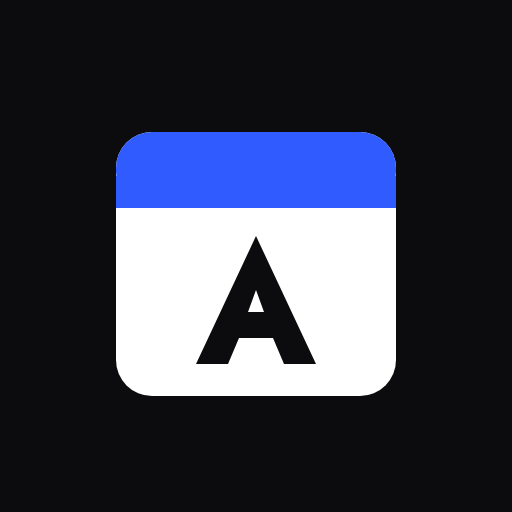
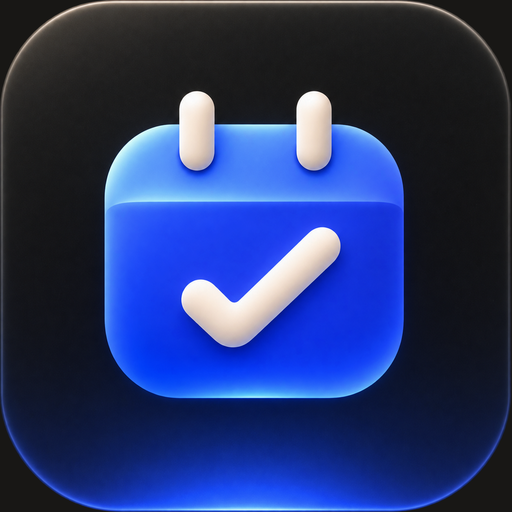
Calendrier à coche du kit d'identité Postmelo à la place du « A » (#16)
- Logo (barre latérale, connexion, visio) : le picto du kit, version claire ou sombre
  selon le thème effectif (système ou choisi), au lieu de la lettre A en dégradé.
- Favicon, icône Apple, icônes 192/512 et maskable du manifeste : version sombre validée.
- Service worker : met en cache favicon.ico au lieu de icon.svg (cache v4).

Claude-Session: https://claude.ai/code/session_01NRZKKgUPyVXi1jhabjq98q

diff --git a/web/src/styles.css b/web/src/styles.css
@@ -259,20 +259,22 @@ kbd {
 }
 
 .logo {
-  display: inline-grid;
-  place-items: center;
-  width: 22px;
-  height: 22px;
-  border-radius: var(--r);
-  background: var(--logo-bg);
-  color: var(--logo-ink);
-  font-weight: 700;
-  font-size: 12.5px;
-  letter-spacing: 0;
+  position: relative;
+  display: inline-block;
+  width: 24px;
+  height: 24px;
   flex: none;
-  box-shadow: inset 0 1px 0 rgba(255, 255, 255, 0.22), 0 1px 2px rgba(0, 0, 0, 0.25);
 }
-.logo.big { width: 44px; height: 44px; border-radius: 12px; font-size: 23px; box-shadow: inset 0 1px 0 rgba(255, 255, 255, 0.22), 0 1px 2px rgba(0, 0, 0, 0.25), 0 10px 22px -8px rgba(10, 16, 40, 0.45); }
+.logo.big { width: 48px; height: 48px; }
+.logo img { position: absolute; inset: 0; width: 100%; height: 100%; }
+/* Pictos du kit d'identité Postmelo : seule la variante du thème effectif s'affiche. */
+.logo-dark { display: none; }
+:root[data-theme='dark'] .logo-light { display: none; }
+:root[data-theme='dark'] .logo-dark { display: block; }
+@media (prefers-color-scheme: dark) {
+  :root:not([data-theme='light']) .logo-light { display: none; }
+  :root:not([data-theme='light']) .logo-dark { display: block; }
+}
 
 .muted { color: var(--muted); }
 

diff --git a/web/src/video/VideoApp.tsx b/web/src/video/VideoApp.tsx
@@ -9,6 +9,7 @@ import {
   AlertIcon, BlurIcon, ChatIcon, CheckIcon, CloseIcon, CopyIcon, FlipIcon, HangupIcon, MicIcon, MicOffIcon, ScreenIcon,
   UsersIcon, VideoIcon, VideoOffIcon,
 } from '../icons';
+import { Logo } from '../Logo';
 import { MoonIcon, SunIcon, useTheme } from '../theme';
 import {
   BACKGROUND_IMAGES, BackgroundFailure, CUSTOM_ID, NO_BACKGROUND, backgroundSupported, backgroundWanted, customImageNow,
@@ -220,7 +221,7 @@ function Frame({ children, wide }: { children: React.ReactNode; wide?: boolean }
   return (
     <div className={`vc${wide ? ' vc-wide' : ''}`}>
       <header className="vc-top">
-        <span className="vc-brand"><span className="logo">A</span><span>Alfred</span></span>
+        <span className="vc-brand"><Logo /><span>Alfred</span></span>
         <button type="button" className="icon-btn" onClick={theme.toggle} aria-label={theme.dark ? 'Passer en thème clair' : 'Passer en thème sombre'}>
           {theme.dark ? <SunIcon /> : <MoonIcon />}
         </button>

diff --git a/web/src/App.tsx b/web/src/App.tsx
@@ -6,6 +6,7 @@ import { EventDialog, ScopeDialog } from './EventDialog';
 import { CalendarIcon, Chevron, ClockIcon, GearIcon, MenuIcon, PlusIcon, UsersIcon, VideoIcon } from './icons';
 import { draftFromOcc, draftToInput, movedInput, newDraft, toOcc, type CalendarMap, type Draft, type Occ } from './model';
 import { MiniMonth, monthGrid, MonthView } from './MonthView';
+import { Logo } from './Logo';
 import { MoonIcon, SunIcon, ThemeSwitch, useTheme } from './theme';
 import { WeekView } from './WeekView';
 
@@ -280,7 +281,7 @@ export function App({ onLogout }: { onLogout: () => void }) {
     <div className="app">
       <aside className={`sidebar${menuOpen ? ' open' : ''}`}>
         <div className="brand">
-          <span className="logo">A</span>
+          <Logo />
           <span>Alfred</span>
         </div>
         <nav className="side-nav" aria-label="Rubriques">

diff --git a/web/src/PrivateRoot.tsx b/web/src/PrivateRoot.tsx
@@ -1,6 +1,7 @@
 import { useEffect, useState } from 'react';
 import { api } from './api';
 import { App } from './App';
+import { Logo } from './Logo';
 
 /** Message laissé dans l'adresse par un retour raté du Compte Postmelo (/?connexion=…), lu une fois puis effacé. */
 function takeSignInError(): string | null {
@@ -33,7 +34,7 @@ function Login({ onDone, compte }: { onDone: () => void; compte: boolean }) {
   return (
     <div className="login">
       <form onSubmit={submit}>
-        <span className="logo big">A</span>
+        <Logo big />
         <h1>Alfred</h1>
         <p className="login-sub">Calendrier personnel</p>
         {compte && (

diff --git a/web/src/Logo.tsx b/web/src/Logo.tsx
@@ -1,0 +1,12 @@
+/**
+ * Alfred's calendar with a check, from the Postmelo identity kit, in its light and dark variants.
+ * Both images are in the page and CSS shows the one for the effective theme (.logo-light / .logo-dark in styles.css).
+ */
+export function Logo({ big = false }: { big?: boolean }) {
+  return (
+    <span className={big ? 'logo big' : 'logo'} aria-hidden="true">
+      <img className="logo-light" src="/brand/alfred/icon-light-128.png" alt="" width={128} height={128} draggable={false} />
+      <img className="logo-dark" src="/brand/alfred/icon-dark-128.png" alt="" width={128} height={128} draggable={false} />
+    </span>
+  );
+}

diff --git a/web/public/sw.js b/web/public/sw.js
@@ -1,9 +1,9 @@
 // Service worker minimal : l'interface s'ouvre instantanément (et hors ligne),
 // les données passent toujours par le réseau.
-const CACHE = 'alfred-shell-v3';
+const CACHE = 'alfred-shell-v4';
 
 self.addEventListener('install', (event) => {
-  event.waitUntil(caches.open(CACHE).then((c) => c.addAll(['/', '/manifest.webmanifest', '/icon.svg'])).then(() => self.skipWaiting()));
+  event.waitUntil(caches.open(CACHE).then((c) => c.addAll(['/', '/manifest.webmanifest', '/favicon.ico'])).then(() => self.skipWaiting()));
 });
 
 self.addEventListener('activate', (event) => {

diff --git a/web/index.html b/web/index.html
@@ -9,7 +9,7 @@
     <meta name="apple-mobile-web-app-status-bar-style" content="default" />
     <meta name="apple-mobile-web-app-title" content="Alfred" />
     <link rel="manifest" href="/manifest.webmanifest" />
-    <link rel="icon" href="/icon.svg" type="image/svg+xml" />
+    <link rel="icon" href="/favicon.ico" sizes="any" />
     <link rel="apple-touch-icon" href="/apple-touch-icon.png" />
     <title>Alfred</title>
     <script src="/theme.js"></script>
